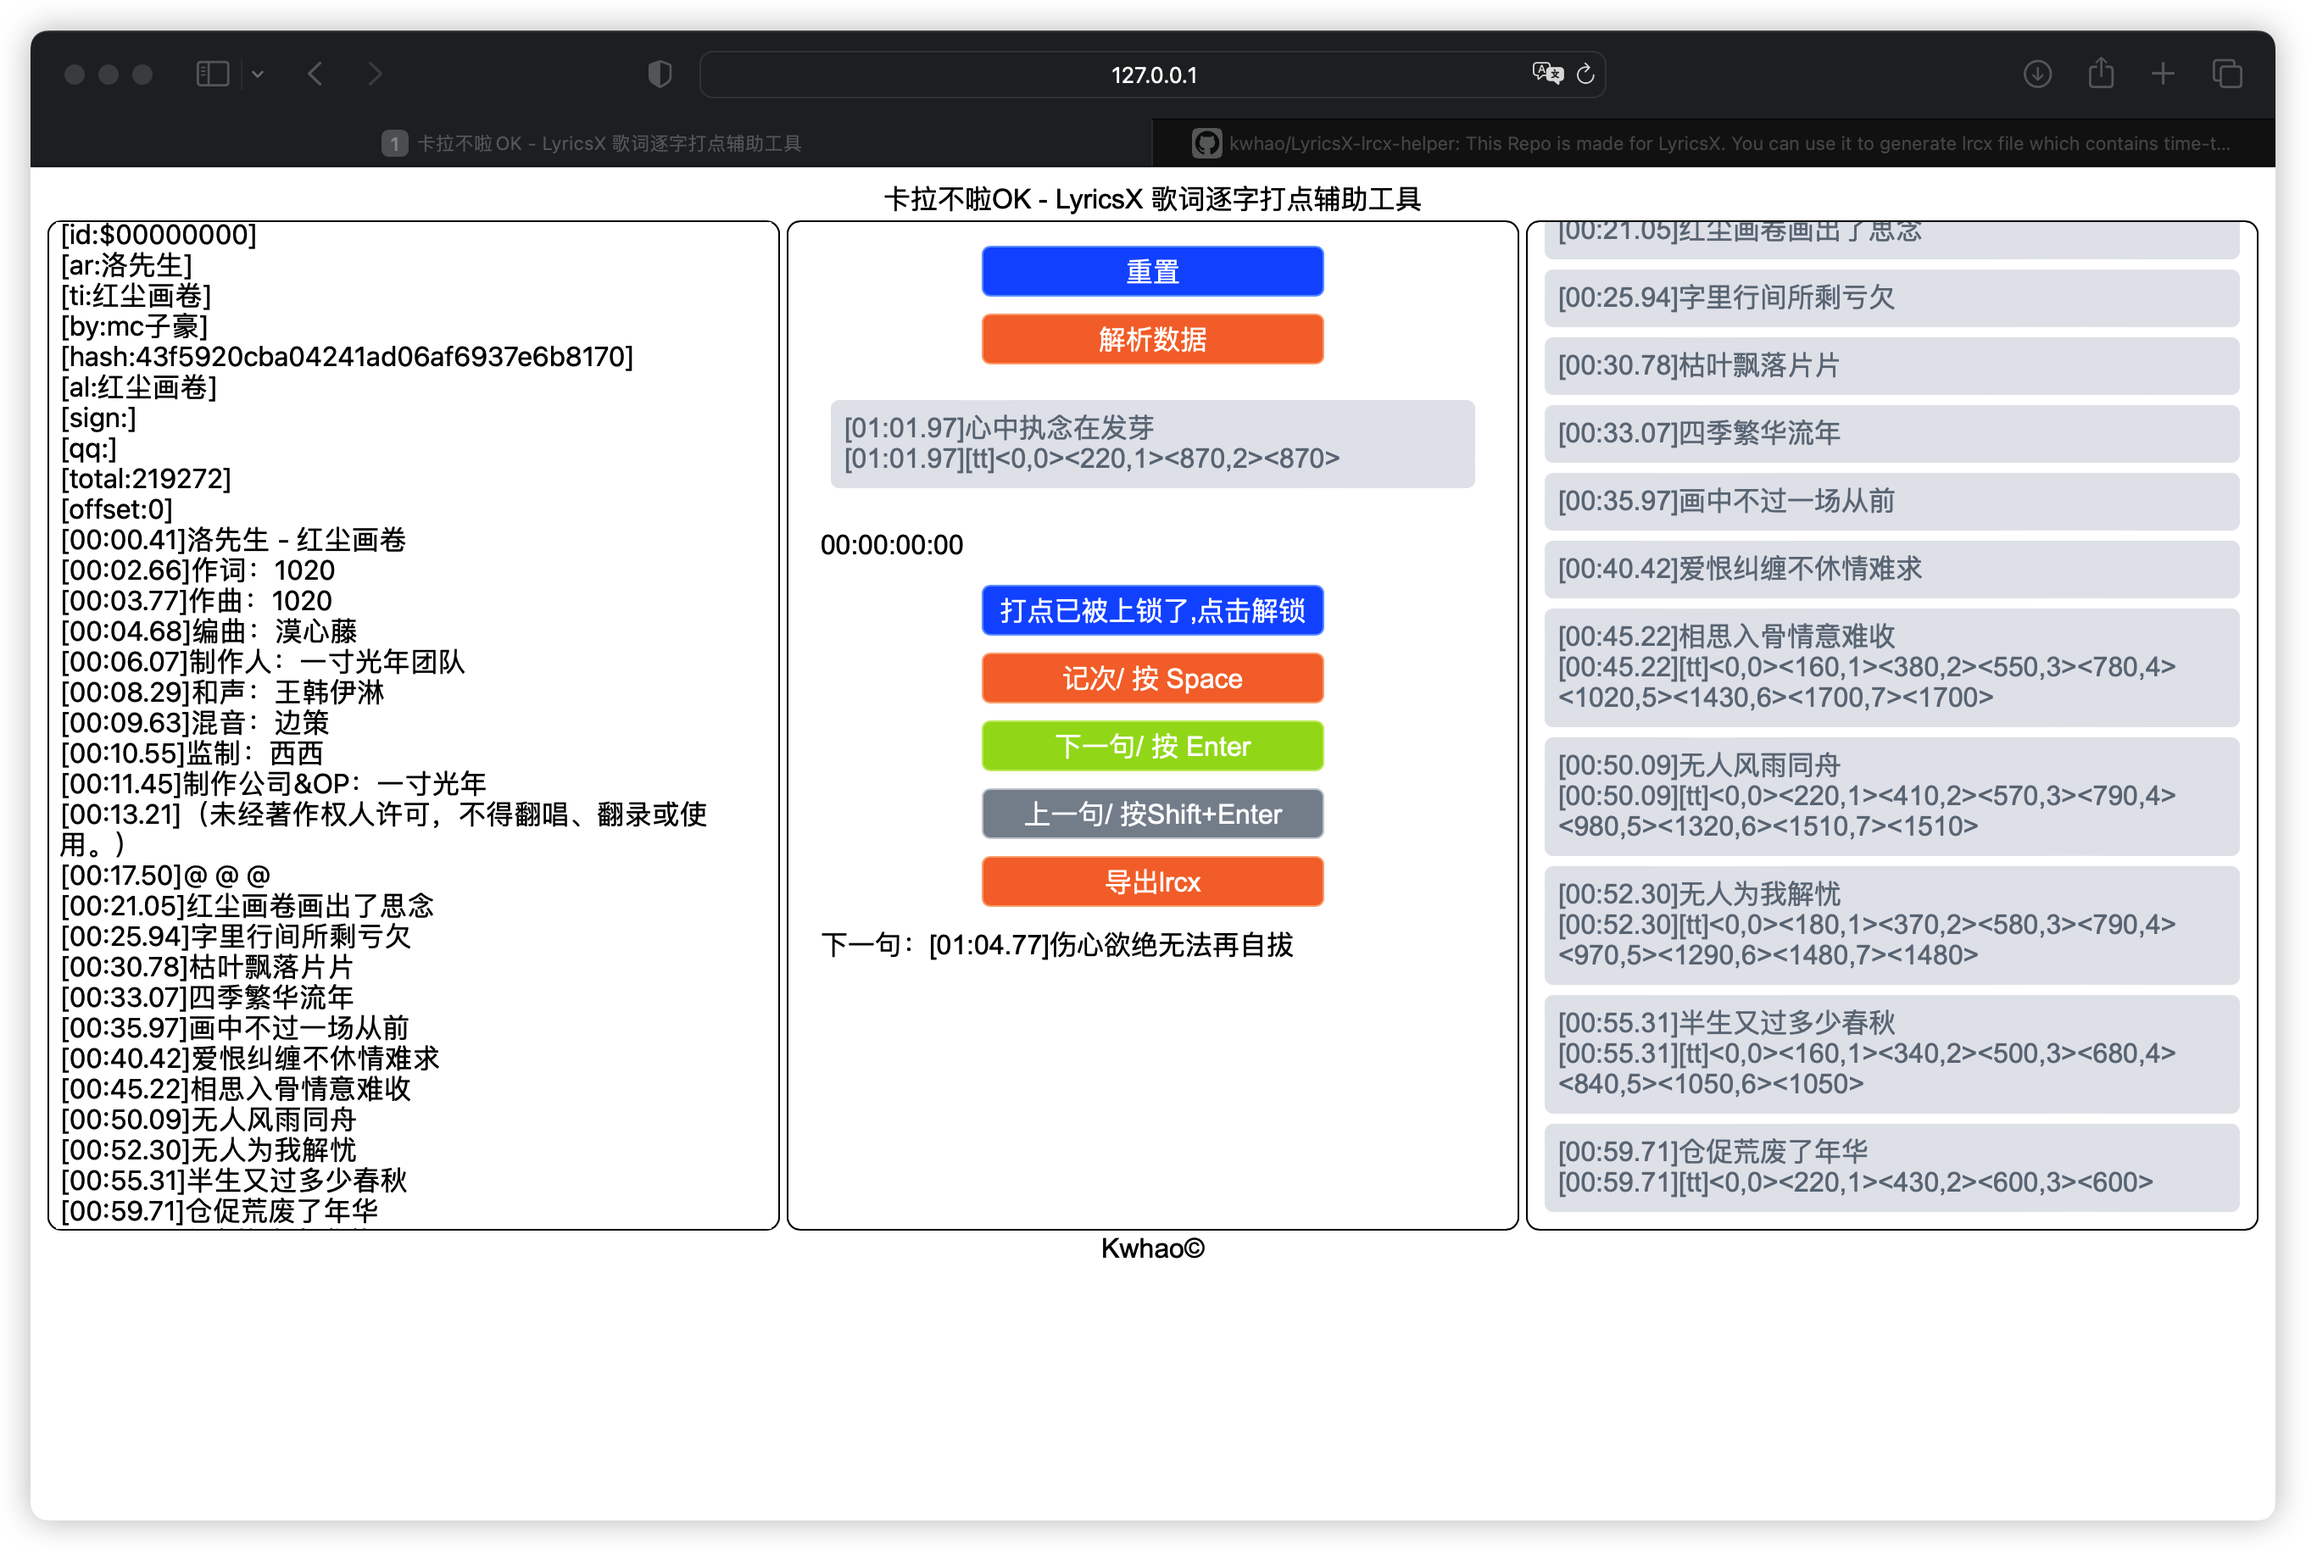
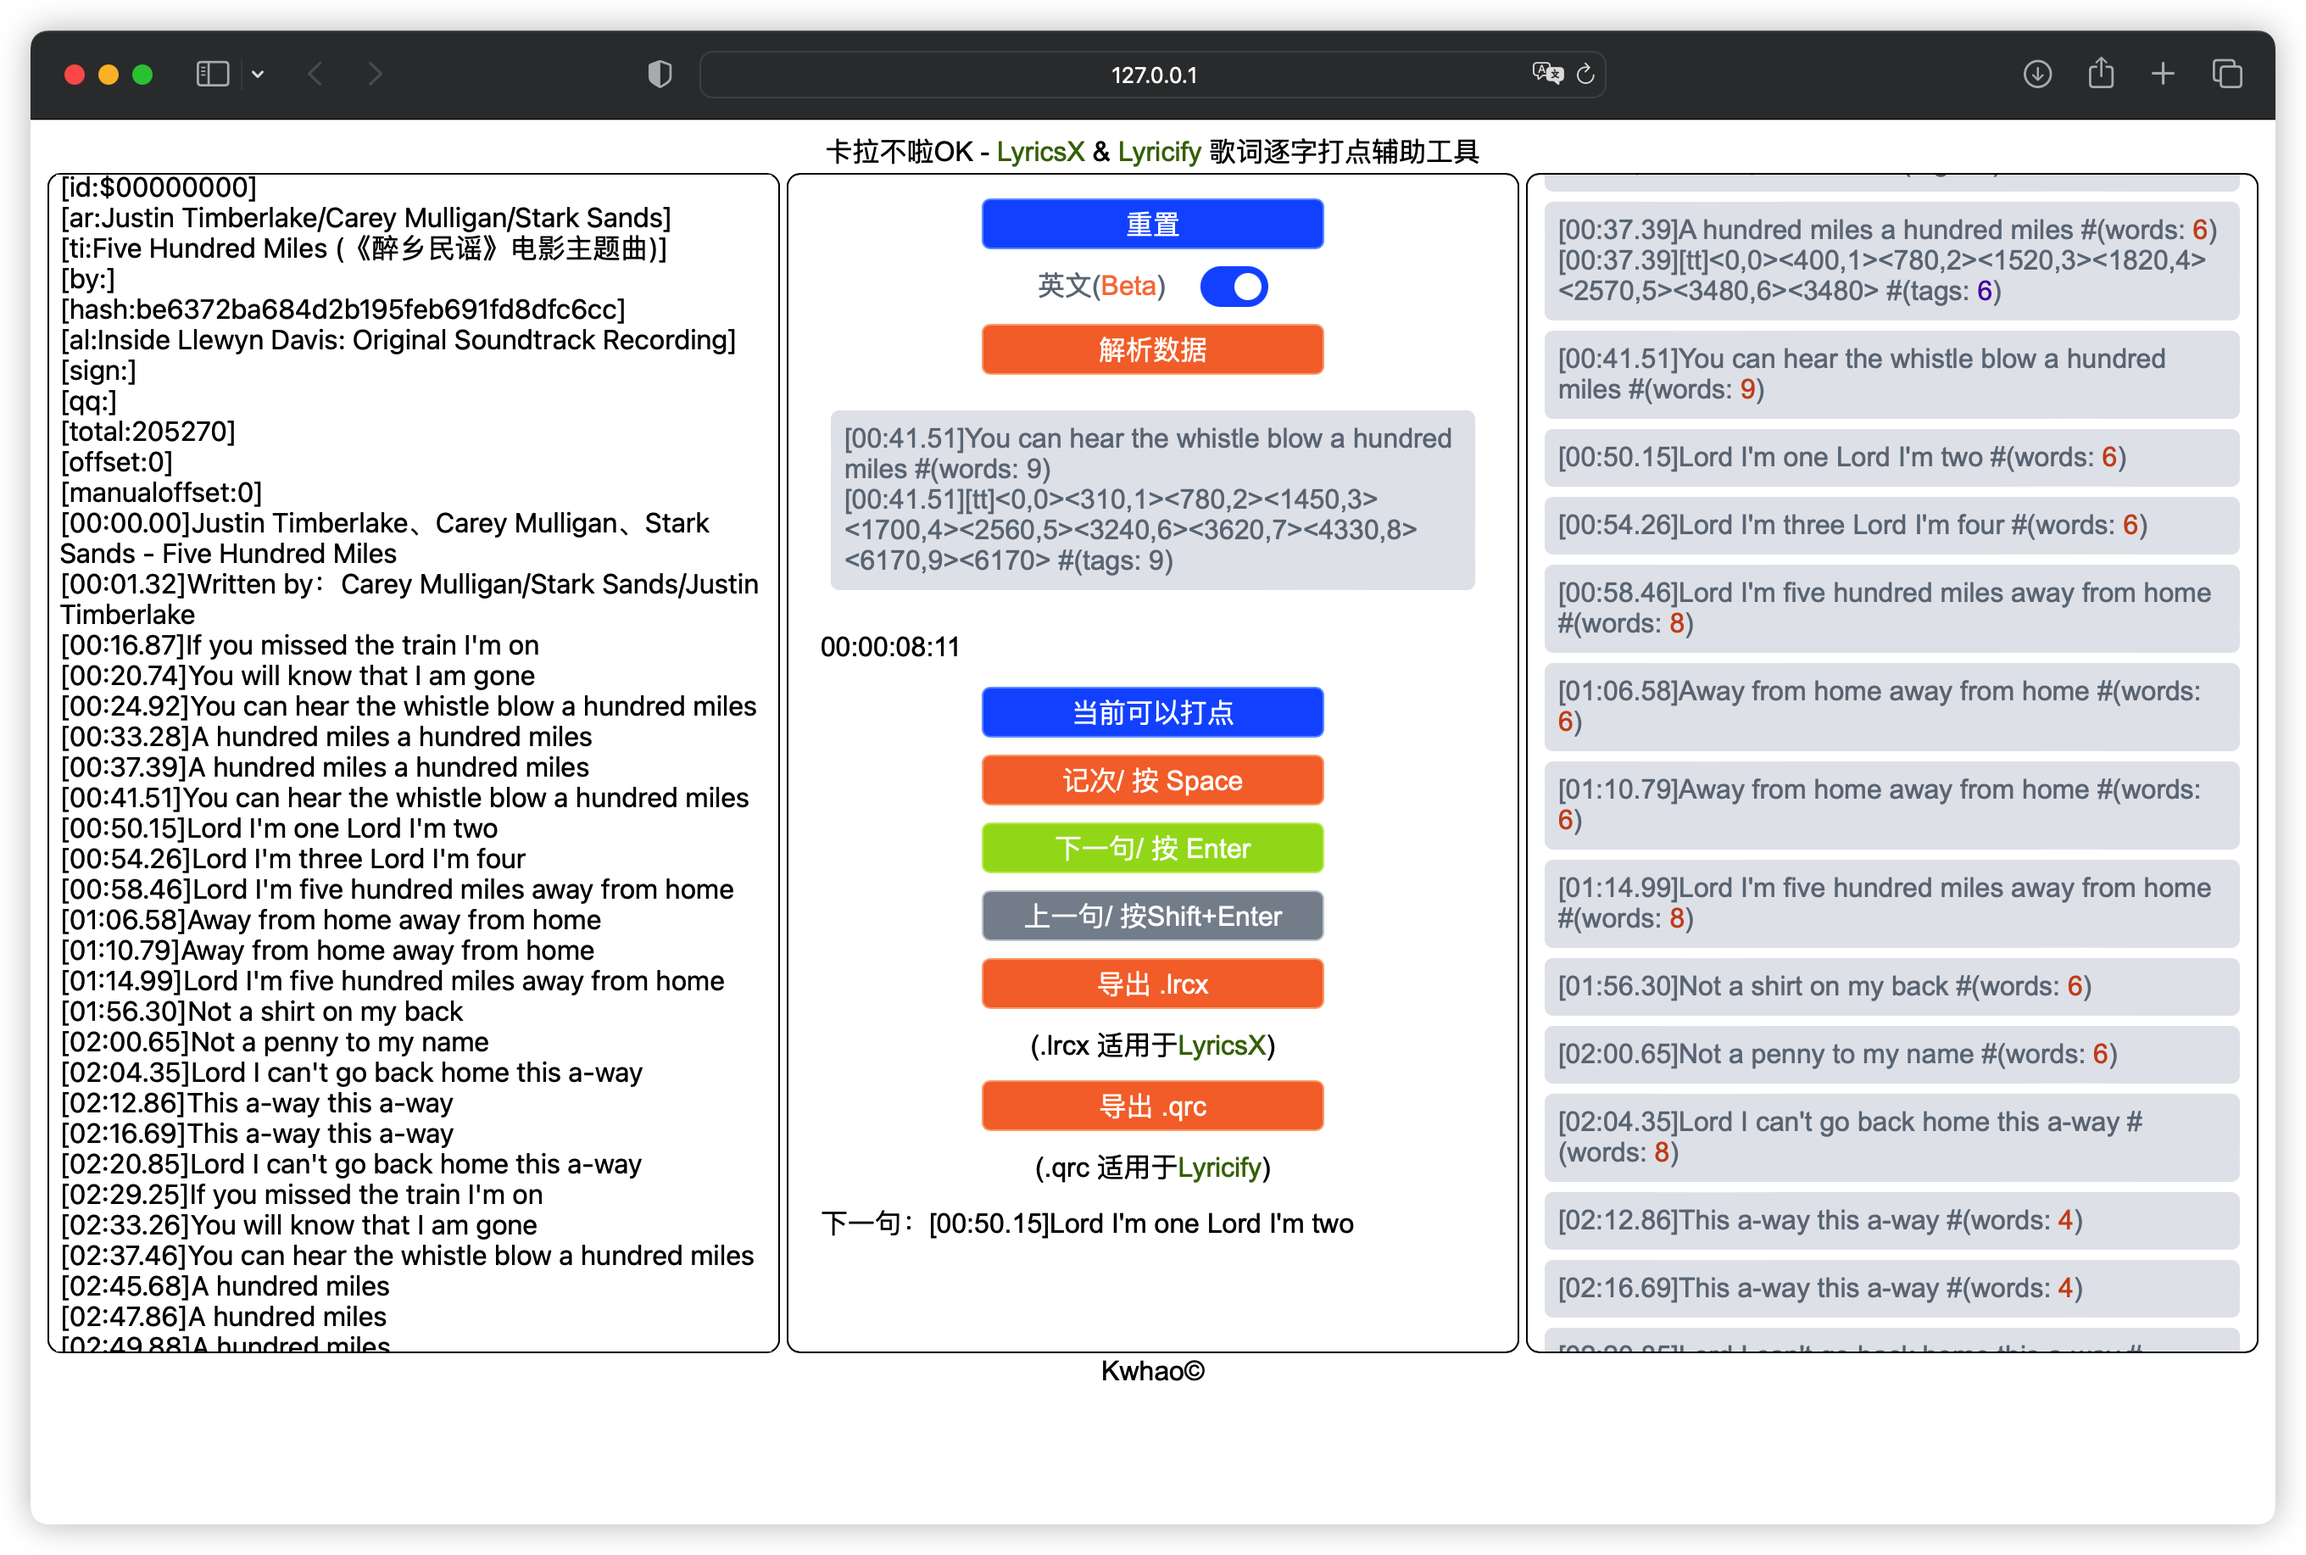
Add Support For English Lyrics

Changed region(s): [[0.0, 0.0311, 1.0, 0.8721], [0.4688, 0.8721, 0.5312, 0.9033]]

diff --git a/js/index.js b/js/index.js
@@ -1,6 +1,7 @@
 var lrc = {
     handle: 0,
     former: "",
+    isEnglish: false,
     fList: [],
     latter: "",
     lList: [],
@@ -80,6 +81,26 @@ const parseMetaString = (x) => {
     return metas
 }
 
+const parseEngMetaString = (x) => {
+    const meta = (s, i) => `<${s},${i}>`
+    var tagLength = 0
+    var metas = "[tt]<0,0>"
+    lrc.fList[x]["timeMeta"].forEach((v, i) => {
+        wordsList = lrc.fList[x].sentence.replace(TIME_REG, "").trim().split(" ")
+        if (i < wordsList.length - 1) {
+            wl = wordsList[i].length + 1 //+1 for space
+            tagLength += wl
+        } else if (i == wordsList.length - 1) {
+            wl = wordsList[i].length
+            tagLength += wl
+        }
+        tagLength++
+        metas += meta(v, tagLength)
+    })
+    metas += `<${lrc.fList[x]["timeMeta"].slice(-1)}>`
+    return metas
+}
+
 const editLrcSentence = (x) => {
     resetTimer()
     lrc.handle = x
@@ -88,7 +109,6 @@ const editLrcSentence = (x) => {
 }
 
 const showLrcResult = (index) => {
-    // console.log(lrc.fList[index])
     var resDom = document.getElementById("res")
     var res = ""
     var yLength = 0
@@ -96,8 +116,8 @@ const showLrcResult = (index) => {
         if (lrc.fList[x]["have"]) {
             res += `
             <div class="lrc-res-item" onclick="editLrcSentence(${x})">
-                <div class="lrc-res-sentence">${lrc.fList[x]["sentence"]}</div>
-                ${lrc.fList[x].metaIsAdd ? `<div class="lrc-res-sentence">[${lrc.fList[x]["time"]}]${parseMeta(x)}</div>` : ""}
+                <div class="lrc-res-sentence">${lrc.fList[x]["sentence"]} #(words: <font color=#CC5120>${lrc.isEnglish ? lrc.fList[x]["sentence"].replace(TIME_REG, "").trim().split(" ").length : lrc.fList[x]["sentence"].replace(TIME_REG, "").length}</font>)</div>
+                ${lrc.fList[x].metaIsAdd ? `<div class="lrc-res-sentence">[${lrc.fList[x]["time"]}]${parseMeta(x)} #(tags: <font color=#551DB0>${lrc.fList[x]["timeMeta"].length}</font>)</div>` : ""}
             </div>
             `
         } else {
@@ -118,14 +138,24 @@ const showLrcResult = (index) => {
 }
 
 const exportLrcxResult = (filename = "demo.lrcx") => {
-    // console.log(lrc.fList[index])
+    console.log(lrc)
     var resDom = document.getElementById("res")
     var res = ""
-    for (var x = 0; x < lrc.fList.length; x++) {
-        if (lrc.fList[x]["have"]) {
-            res += `${lrc.fList[x]["sentence"]}\n${lrc.fList[x].metaIsAdd ? `[${lrc.fList[x]["time"]}]${parseMetaString(x)}\n` : ""}`
-        } else {
-            res += `${lrc.fList[x]["sentence"]}\n`
+    if (!lrc.isEnglish) {
+        for (var x = 0; x < lrc.fList.length; x++) {
+            if (lrc.fList[x]["have"]) {
+                res += `${lrc.fList[x]["sentence"]}\n${lrc.fList[x].metaIsAdd ? `[${lrc.fList[x]["time"]}]${parseMetaString(x)}\n` : ""}`
+            } else {
+                res += `${lrc.fList[x]["sentence"]}\n`
+            }
+        }
+    } else {
+        for (var x = 0; x < lrc.fList.length; x++) {
+            if (lrc.fList[x]["have"]) {
+                res += `${lrc.fList[x]["sentence"]}\n${lrc.fList[x].metaIsAdd ? `[${lrc.fList[x]["time"]}]${parseEngMetaString(x)}\n` : ""}`
+            } else {
+                res += `${lrc.fList[x]["sentence"]}\n`
+            }
         }
     }
 
@@ -141,6 +171,9 @@ const exportLrcxResult = (filename = "demo.lrcx") => {
 const exportQrcResult = (filename = "demo.qrc") => {
     const qrcSentenceHelp = (v) => {
         var s_old = v["sentence"].replace(TIME_REG, "")
+        if (lrc.isEnglish) {
+            s_old = s_old.trim().split(" ")
+        }
         var timeCount = timeToMili(v["time"])
         var s_new = ""
         var keepon = 0
@@ -178,8 +211,8 @@ const showLrcSentence = (index, showMeta = false) => {
         if (lrc.fList[index]["have"]) {
             res += `
             <div class="lrc-res-item default-cursor">
-                <div class="lrc-res-sentence">${lrc.fList[index]["sentence"]}</div>
-                ${showMeta ? `<div class="lrc-res-sentence">[${lrc.fList[index]["time"]}]${parseMeta(index)}</div>` : ""}
+                <div class="lrc-res-sentence">${lrc.fList[index]["sentence"]} #(words: ${lrc.isEnglish ? lrc.fList[index]["sentence"].replace(TIME_REG, "").trim().split(" ").length : lrc.fList[index]["sentence"].replace(TIME_REG, "").length})</div>
+                ${showMeta ? `<div class="lrc-res-sentence">[${lrc.fList[index]["time"]}]${parseMeta(index)} #(tags: ${lrc.fList[index]["timeMeta"].length})</div>` : ""}
             </div>
             `
         } else {
@@ -234,6 +267,14 @@ document.getElementById("reset-all").addEventListener("click", () => {
     document.getElementById("res").innerHTML = ""
 }, false)
 
+document.getElementById("is-english").addEventListener("click", () => {
+    lrc.isEnglish = !lrc.isEnglish
+    if (lrc.isEnglish) {
+        document.getElementById("is-english").classList.add("arco-switch-checked")
+    } else {
+        document.getElementById("is-english").classList.remove("arco-switch-checked")
+    }
+}, false)
 
 document.getElementById("confirm-input").addEventListener("click", () => {
     resetLrc()

diff --git a/css/style.css b/css/style.css
@@ -140,3 +140,46 @@
 .default-cursor:hover {
     cursor: default;
 }
+
+
+.arco-switch {
+    position: relative;
+    box-sizing: border-box;
+    min-width: 40px;
+    height: 24px;
+    padding: 0;
+    overflow: hidden;
+    line-height: 24px;
+    vertical-align: middle;
+    background-color: rgb(201, 205, 212);
+    border: none;
+    border-radius: 12px;
+    outline: none;
+    cursor: pointer;
+    transition: background-color .2s cubic-bezier(.34, .69, .1, 1);
+}
+
+.arco-switch-checked {
+    background-color: rgb(22, 93, 255);
+}
+
+
+.arco-switch-handle {
+    position: absolute;
+    top: 4px;
+    left: 4px;
+    display: flex;
+    align-items: center;
+    justify-content: center;
+    width: 16px;
+    height: 16px;
+    color: #fff;
+    font-size: 12px;
+    background-color: #fff;
+    border-radius: 50%;
+    transition: all .2s cubic-bezier(.34, .69, .1, 1)
+}
+
+.arco-switch-checked .arco-switch-handle {
+    left: calc(100% - 20px);
+}

diff --git a/index.html b/index.html
@@ -23,6 +23,14 @@
                 </div>
             </div>
             <div class="center-item">
+                <span style="color:var(--gray-7);width: 6rem;">英文(<font color="#F77E45">Beta</font>)</span>
+                <button id="is-english" type="button" class="arco-switch arco-switch-type-circle">
+                    <span class="arco-switch-handle">
+                        <span class="arco-switch-handle-icon"></span>
+                    </span>
+                </button>
+            </div>
+            <div class="center-item">
                 <div class="button btn-warning">
                     <div id="confirm-input" class="btn-inner">解析数据</div>
                 </div>
